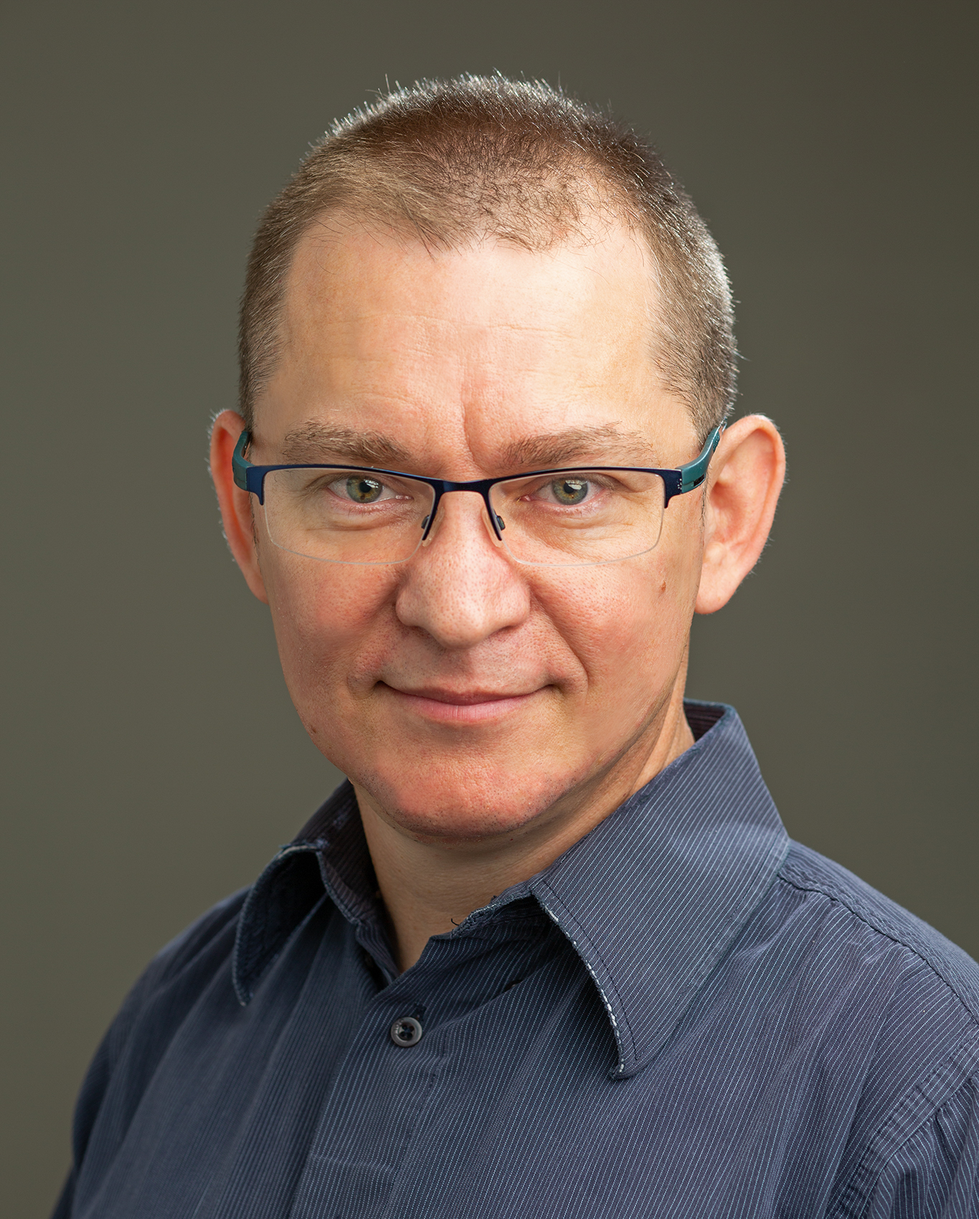
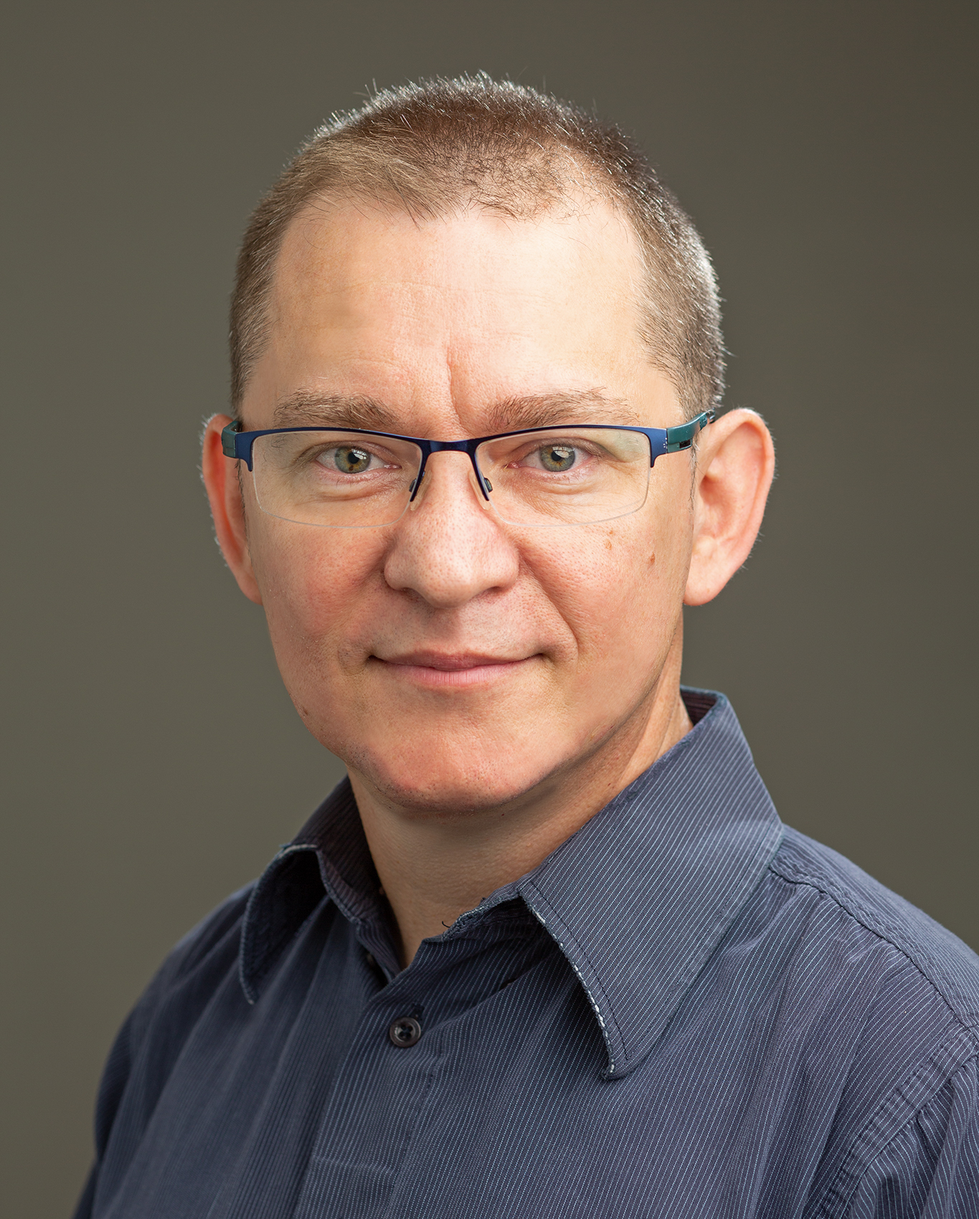
add new photo for Oren

diff --git a/resources/views/home/home_team.blade.php b/resources/views/home/home_team.blade.php
@@ -11,7 +11,7 @@
                 @foreach($members as $member)
                     <div class="member col-sm-6">
                         <div class="img"
-                             style="background-image: url('/images/team/{{$member->image}}_m.jpg?ver=1ax31')">
+                             style="background-image: url('/images/team/{{$member->image}}_m.jpg?ver=1kx72')">
                             @if ($member->linkedin)<a class="icon-wrapper" href="{{$member->linkedin}}" target="_blank"><i
                                         class="icon icon-linkedin"></i></a>@endif
                             @if ($member->github)<a class="icon-wrapper icon-github" href="{{$member->github}}" target="_blank"><i
@@ -31,7 +31,7 @@
             <div class="owl-carousel team-carousel">
                 @foreach($members as $member)
                     <div class="member">
-                        <div class="img" style="background-image: url('/images/team/{{$member->image}}_s.jpg?ver=1bx21')">
+                        <div class="img" style="background-image: url('/images/team/{{$member->image}}_s.jpg?ver=1kx72')">
                             @if ($member->linkedin)<a class="icon-wrapper" href="{{$member->linkedin}}" target="_blank"><i
                                         class="icon icon-linkedin"></i></a>@endif
                             @if ($member->github)<a class="icon-wrapper icon-github" href="{{$member->github}}" target="_blank"><i
